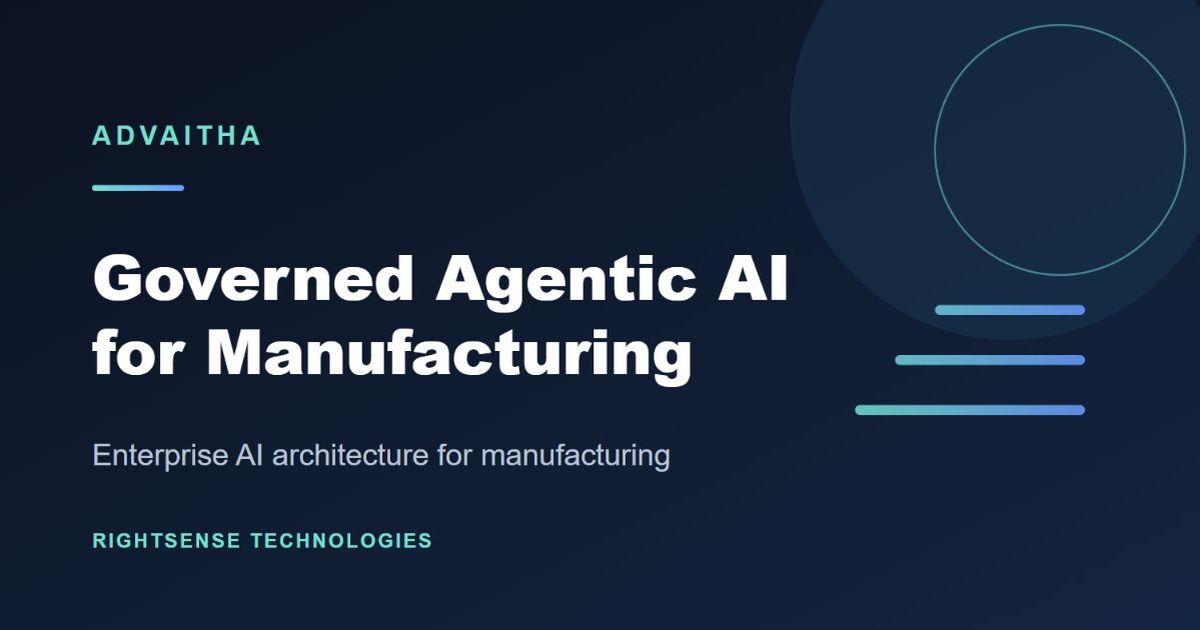
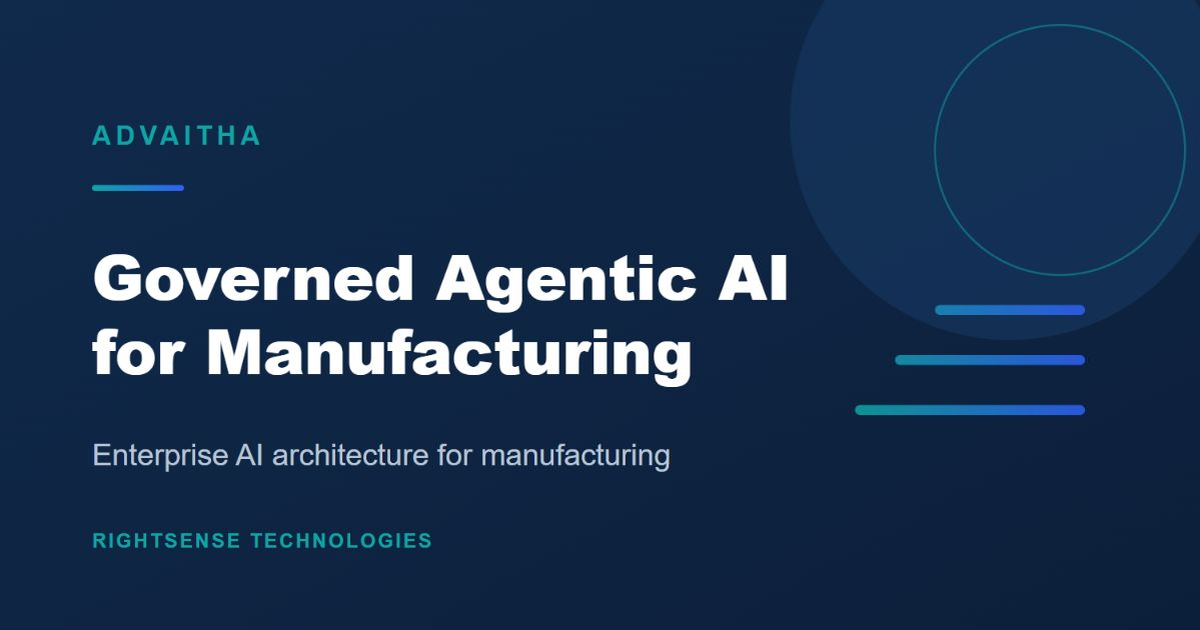
Align Advaitha with RightSense brand system

diff --git a/about.html b/about.html
@@ -15,5 +15,5 @@
 <main><section class="page-hero"><div class="container"><span class="eyebrow">About Advaitha</span><h1>Enterprise AI should become part of the operating system—not another disconnected layer.</h1><p>Advaitha is a strategic AI architecture and advisory initiative of RightSense Technologies Private Limited, focused on engineering-intensive manufacturing enterprises.</p></div></section>
 <section class="section"><div class="container credibility"><div><div class="big-stat">35<span>+</span></div><strong>years of enterprise systems and manufacturing transformation experience</strong></div><div class="credibility-copy"><div class="kicker">Led by Mohan Babu</div><h2>Systems thinking before AI novelty.</h2><p>Mohan Babu is an enterprise AI strategist and manufacturing systems architect with experience spanning ERP, PLM, product configuration, engineering processes, industrial operations and large-scale transformation. His work has included SAP and Oracle environments, engineering-intensive manufacturing and the integration challenges that sit between commercial, engineering and operations teams.</p><p>Advaitha applies that experience to a new problem: how enterprises can adopt Agentic AI without creating more fragmentation, unmanaged autonomy or technology that cannot be tied to business outcomes.</p><div class="tags"><span class="tag">ERP transformation</span><span class="tag">PLM</span><span class="tag">Product configuration</span><span class="tag">Engineering workflows</span><span class="tag">Industrial operations</span><span class="tag">Enterprise architecture</span></div></div></div></section>
 <section class="section section-soft"><div class="container"><div class="section-head"><div class="kicker">Operating philosophy</div><h2>Non-duality translated into enterprise architecture.</h2><p>The name Advaitha reflects a simple architectural principle: intelligence and operations should not live as separate worlds. The philosophy is expressed practically—not metaphysically—through integrated context, governed decision loops and fewer gaps between information and accountable action.</p></div><div class="card-grid"><article class="card"><h3>Outcome before technology</h3><p>Begin with the business decision, the economic lever and the accountable owner. Select technology only after the problem is clear.</p></article><article class="card"><h3>Integration before proliferation</h3><p>Use the systems already running the enterprise as the foundation, rather than introducing another disconnected island of intelligence.</p></article><article class="card"><h3>Governance before autonomy</h3><p>Define permissions, evidence, approvals and escalation before agents are allowed to act on material enterprise processes.</p></article></div></div></section>
-<section class="section section-dark"><div class="container"><div class="section-head"><div class="kicker">RightSense Technologies</div><h2>Advaitha is the architecture and advisory layer within a broader AI-native transformation ecosystem.</h2><p>RightSense provides transformation and delivery capability, while its purpose-built platforms can accelerate selected use cases where there is a clear fit. Advaitha remains focused on the enterprise architecture, governance and operating model required to make those decisions coherently.</p></div><a class="btn btn-secondary" href="https://rightsense.in/" target="_blank" rel="noopener">Visit RightSense</a></div></section></main>
-<footer class="site-footer"><div class="container footer-grid"><p>© 2026 Advaitha · RightSense Technologies Private Limited · Bengaluru, India.</p><div class="footer-links"><a href="/">Home</a><a href="/architecture">Architecture</a><a href="/services">Services</a><a href="/contact">Contact</a></div></div></footer><script src="script.js" defer></script></body></html>
+<section class="section section-dark"><div class="container"><div class="section-head"><div class="kicker">RightSense Technologies</div><h2>Advaitha is the Enterprise AI Architecture & Advisory practice within the RightSense Technologies ecosystem.</h2><p>Advaitha defines strategy, architecture and governance. RightSense provides transformation, delivery and integration capability. PulseIQ, WinsProposal and TalentPulse provide purpose-built acceleration where there is a clear fit, without requiring a product-first transformation.</p></div><a class="btn btn-secondary" href="https://rightsense.in/" target="_blank" rel="noopener noreferrer">Visit RightSense</a></div></section></main>
+<footer class="site-footer"><div class="container footer-grid"><p>© 2026 Advaitha · RightSense Technologies Private Limited · Bengaluru, India.</p><div class="footer-links"><a href="/">Home</a><a href="/architecture">Architecture</a><a href="/services">Services</a><a href="/contact">Contact</a><a href="https://rightsense.in/" target="_blank" rel="noopener noreferrer">RightSense</a><a href="https://pulseiq.co.in/" target="_blank" rel="noopener noreferrer">PulseIQ</a><a href="https://winsproposal.com/" target="_blank" rel="noopener noreferrer">WinsProposal</a><a href="https://talentpulse.me/" target="_blank" rel="noopener noreferrer">TalentPulse</a></div></div></footer><script src="script.js" defer></script></body></html>

diff --git a/index.html b/index.html
@@ -154,14 +154,14 @@
       <div class="container">
         <div class="section-head">
           <div class="kicker">RightSense ecosystem</div>
-          <h2>Advisory above. Purpose-built platforms where acceleration matters.</h2>
-          <p>Advaitha remains technology- and architecture-led. Where a use case aligns, RightSense platforms can accelerate execution without forcing a product-first transformation.</p>
+          <h2>Architecture above. Purpose-built platforms where acceleration matters.</h2>
+          <p>Advaitha is the Enterprise AI Architecture & Advisory practice within the RightSense Technologies ecosystem. RightSense provides transformation, delivery and integration capability; its purpose-built platforms accelerate specific operating outcomes where there is a clear fit, without forcing a product-first transformation.</p>
         </div>
         <div class="ecosystem-grid">
-          <article class="ecosystem-card"><strong>RightSense</strong><span>AI-native enterprise transformation and delivery.</span><a href="https://rightsense.in/" target="_blank" rel="noopener">rightsense.in →</a></article>
-          <article class="ecosystem-card"><strong>PulseIQ</strong><span>Enterprise operating intelligence and outcome visibility.</span><a href="https://pulseiq.co.in/" target="_blank" rel="noopener">pulseiq.co.in →</a></article>
-          <article class="ecosystem-card"><strong>WinsProposal</strong><span>Revenue and proposal intelligence for engineering-intensive businesses.</span><a href="https://winsproposal.com/" target="_blank" rel="noopener">winsproposal.com →</a></article>
-          <article class="ecosystem-card"><strong>TalentPulse</strong><span>AI-native talent intelligence for enterprise and recruiting workflows.</span><a href="https://talentpulse.me/" target="_blank" rel="noopener">talentpulse.me →</a></article>
+          <article class="ecosystem-card"><strong>RightSense Technologies</strong><span>Enterprise Operating Intelligence for industrial and project-driven businesses.</span><a href="https://rightsense.in/" target="_blank" rel="noopener noreferrer">Visit RightSense →</a></article>
+          <article class="ecosystem-card"><strong>PulseIQ</strong><span><b>Enterprise Operating Intelligence Platform</b><br>Connects enterprise truth into executive operating intelligence, forecasting, what-if scenarios and board-ready recommendations.</span><a href="https://pulseiq.co.in/" target="_blank" rel="noopener noreferrer">pulseiq.co.in →</a></article>
+          <article class="ecosystem-card"><strong>WinsProposal</strong><span><b>Revenue and Proposal Intelligence Platform</b><br>Turns proposals, RFP responses and pricing decisions into a learning loop that improves win rate and protects margin.</span><a href="https://winsproposal.com/" target="_blank" rel="noopener noreferrer">winsproposal.com →</a></article>
+          <article class="ecosystem-card"><strong>TalentPulse</strong><span><b>AI-Native Talent Intelligence Platform</b><br>Surfaces workforce capacity, skills, attrition and productivity signals that leadership cannot see in HRMS alone.</span><a href="https://talentpulse.me/" target="_blank" rel="noopener noreferrer">talentpulse.me →</a></article>
         </div>
       </div>
     </section>
@@ -210,7 +210,7 @@
   <footer class="site-footer">
     <div class="container footer-grid">
       <p>© 2026 Advaitha. A strategic AI architecture and advisory initiative of RightSense Technologies Private Limited, Bengaluru, India.</p>
-      <div class="footer-links"><a href="/architecture">Architecture</a><a href="/services">Services</a><a href="/about">About</a><a href="/contact">Contact</a><a href="mailto:mohan@rightsense.in">mohan@rightsense.in</a></div>
+      <div class="footer-links"><a href="/architecture">Architecture</a><a href="/services">Services</a><a href="/about">About</a><a href="/contact">Contact</a><a href="https://rightsense.in/" target="_blank" rel="noopener noreferrer">RightSense</a><a href="https://pulseiq.co.in/" target="_blank" rel="noopener noreferrer">PulseIQ</a><a href="https://winsproposal.com/" target="_blank" rel="noopener noreferrer">WinsProposal</a><a href="https://talentpulse.me/" target="_blank" rel="noopener noreferrer">TalentPulse</a><a href="mailto:mohan@rightsense.in">mohan@rightsense.in</a></div>
     </div>
   </footer>
   <script src="script.js" defer></script>

diff --git a/styles.css b/styles.css
@@ -1,16 +1,17 @@
 :root {
-  --ink: #0b1220;
-  --muted: #5f6b7a;
-  --line: #dfe5ec;
-  --soft: #f4f7fa;
+  --ink: #0f172a;
+  --muted: #64748b;
+  --line: #e2e8f0;
+  --soft: #f8fafc;
   --paper: #ffffff;
-  --accent: #1463ff;
-  --accent-deep: #0a3bb3;
-  --accent-soft: #eaf1ff;
-  --success: #0f766e;
+  --accent: #2f60f5;
+  --accent-deep: #1c47d8;
+  --accent-soft: #eef4ff;
+  --teal: #0ea5a4;
+  --success: #0ea5a4;
   --max: 1180px;
-  --radius: 18px;
-  --shadow: 0 18px 50px rgba(11, 18, 32, 0.08);
+  --radius: 20px;
+  --shadow: 0 18px 50px rgba(15, 23, 42, 0.08);
 }
 
 * { box-sizing: border-box; margin: 0; padding: 0; }
@@ -36,7 +37,7 @@ img { max-width: 100%; }
   border-bottom: 1px solid rgba(223, 229, 236, 0.85);
 }
 .nav {
-  min-height: 72px;
+  min-height: 64px;
   display: flex;
   align-items: center;
   justify-content: space-between;
@@ -115,10 +116,14 @@ img { max-width: 100%; }
   position: relative;
   overflow: hidden;
   padding: 112px 0 82px;
-  background:
-    linear-gradient(rgba(20, 99, 255, 0.035) 1px, transparent 1px),
-    linear-gradient(90deg, rgba(20, 99, 255, 0.035) 1px, transparent 1px),
-    linear-gradient(180deg, #f8fbff 0%, #ffffff 100%);
+  color: #fff;
+  background-color: #102a4c;
+  background-image:
+    linear-gradient(rgba(255, 255, 255, 0.07) 1px, transparent 1px),
+    linear-gradient(90deg, rgba(255, 255, 255, 0.07) 1px, transparent 1px),
+    radial-gradient(ellipse 80% 55% at 50% 25%, rgba(47, 96, 245, 0.28) 0%, transparent 60%),
+    radial-gradient(ellipse 55% 45% at 85% 35%, rgba(14, 165, 164, 0.14) 0%, transparent 60%),
+    linear-gradient(180deg, #16365f 0%, #102a4c 60%, #0c1f3a 100%);
   background-size: 48px 48px, 48px 48px, auto;
 }
 .hero::after {
@@ -127,7 +132,7 @@ img { max-width: 100%; }
   width: 420px;
   height: 420px;
   border-radius: 50%;
-  background: radial-gradient(circle, rgba(20, 99, 255, 0.12), transparent 68%);
+  background: radial-gradient(circle, rgba(47, 96, 245, 0.22), transparent 68%);
   top: -180px;
   right: -120px;
   pointer-events: none;
@@ -137,10 +142,10 @@ img { max-width: 100%; }
   align-items: center;
   gap: 8px;
   padding: 7px 11px;
-  border: 1px solid #cfdbec;
-  background: rgba(255,255,255,0.8);
+  border: 1px solid rgba(255,255,255,.25);
+  background: rgba(255,255,255,0.1);
   border-radius: 999px;
-  color: var(--accent-deep);
+  color: #dbe6f4;
   font-size: 0.78rem;
   font-weight: 750;
   text-transform: uppercase;
@@ -156,7 +161,7 @@ img { max-width: 100%; }
 }
 .hero-copy {
   max-width: 770px;
-  color: var(--muted);
+  color: #dbe6f4;
   font-size: clamp(1.08rem, 2vw, 1.3rem);
   margin-top: 26px;
 }
@@ -174,8 +179,8 @@ img { max-width: 100%; }
   transition: transform .18s ease, box-shadow .18s ease, background .18s ease;
 }
 .btn:hover { transform: translateY(-2px); box-shadow: 0 10px 24px rgba(11, 18, 32, 0.12); }
-.btn-primary { background: var(--ink); color: #fff; }
-.btn-primary:hover { background: var(--accent); border-color: var(--accent); }
+.btn-primary { background: var(--accent); color: #fff; border-color: var(--accent); }
+.btn-primary:hover { background: var(--accent-deep); border-color: var(--accent-deep); }
 .btn-secondary { background: #fff; color: var(--ink); border-color: #cfd7e2; }
 
 .proof-strip {

diff --git a/contact.html b/contact.html
@@ -14,4 +14,4 @@
 <body><header class="site-header"><nav class="container nav" aria-label="Primary navigation"><a class="brand" href="/"><span class="brand-mark" aria-hidden="true"></span>ADVAITHA</a><button class="menu-toggle" aria-label="Toggle navigation" aria-expanded="false"><span></span><span></span><span></span></button><ul class="nav-links"><li><a href="/#outcomes">What We Solve</a></li><li><a href="/architecture">Architecture</a></li><li><a href="/services">Services</a></li><li><a href="/about">About</a></li><li><a class="btn btn-primary" href="/#assessment">Assess Your AI Opportunity</a></li></ul></nav></header>
 <main><section class="page-hero"><div class="container"><span class="eyebrow">Contact</span><h1>Start with the operating problem you want AI to change.</h1><p>For enterprise architecture, Agentic AI transformation or advisory discussions, begin with the Executive AI Opportunity & Architecture Assessment or contact Mohan Babu directly.</p><div class="hero-actions"><a class="btn btn-primary" href="/#assessment">Request the Assessment</a><a class="btn btn-secondary" href="mailto:mohan@rightsense.in">mohan@rightsense.in</a></div></div></section>
 <section class="section"><div class="container content-grid"><div class="content-block"><h2>Best fit</h2><p>Engineering-intensive manufacturers working across ERP, PLM, CRM, CPQ, quality, engineering documents and operational data—especially where AI pilots have not yet become governed operating capability.</p></div><div class="content-block"><h2>Useful participants</h2><p>CEO/MD, COO, CIO/IT leadership and one or two business owners from commercial, engineering, supply chain or operations depending on the target workflow.</p></div><div class="content-block"><h2>What to bring</h2><p>A high-level description of the workflow, systems involved, the current pain or delay and the business outcome you want to improve. No production credentials or database access are required for an initial discussion.</p></div><div class="content-block"><h2>Location</h2><p>Bengaluru, India. Enterprise engagements can be structured for India or global teams.</p></div></div></section></main>
-<footer class="site-footer"><div class="container footer-grid"><p>© 2026 Advaitha · RightSense Technologies Private Limited · Bengaluru, India.</p><div class="footer-links"><a href="/">Home</a><a href="/architecture">Architecture</a><a href="/services">Services</a><a href="/about">About</a></div></div></footer><script src="script.js" defer></script></body></html>
+<footer class="site-footer"><div class="container footer-grid"><p>© 2026 Advaitha · RightSense Technologies Private Limited · Bengaluru, India.</p><div class="footer-links"><a href="/">Home</a><a href="/architecture">Architecture</a><a href="/services">Services</a><a href="/about">About</a><a href="https://rightsense.in/" target="_blank" rel="noopener noreferrer">RightSense</a><a href="https://pulseiq.co.in/" target="_blank" rel="noopener noreferrer">PulseIQ</a><a href="https://winsproposal.com/" target="_blank" rel="noopener noreferrer">WinsProposal</a><a href="https://talentpulse.me/" target="_blank" rel="noopener noreferrer">TalentPulse</a></div></div></footer><script src="script.js" defer></script></body></html>

diff --git a/services.html b/services.html
@@ -17,4 +17,4 @@
 <section class="section section-soft" id="blueprint"><div class="container content-grid"><div><div class="kicker">8–10 week architecture engagement</div><h2>Agentic Enterprise Blueprint</h2></div><div class="content-block"><p>For enterprises moving beyond isolated copilots or proofs of concept and needing a governed target architecture and execution roadmap.</p><ul><li>Priority use-case portfolio and value hypotheses</li><li>Enterprise systems and data-flow map</li><li>Semantic/operational intelligence design</li><li>Agent roles, tool permissions and human approval boundaries</li><li>Security, auditability and governance model</li><li>Pilot sequencing and scale roadmap</li></ul></div></div></section>
 <section class="section" id="advisory"><div class="container content-grid"><div><div class="kicker">Ongoing leadership support</div><h2>Strategic AI Advisory</h2></div><div class="content-block"><p>Independent architecture and governance oversight for organizations building an enterprise AI portfolio across multiple vendors, platforms and operating functions.</p><ul><li>Architecture and investment reviews</li><li>Use-case portfolio governance</li><li>Vendor/platform decision support</li><li>Value realization and adoption reviews</li><li>Agent autonomy and risk decisions</li><li>Executive steering support</li></ul></div></div></section>
 <section class="section section-dark"><div class="container"><div class="section-head"><div class="kicker">Entry point</div><h2>Not sure which engagement fits?</h2><p>Begin with the Executive AI Opportunity & Architecture Assessment. It is designed to identify the 3–5 opportunities and constraints that should shape the next investment decision.</p></div><a class="btn btn-secondary" href="/#assessment">Request the Assessment</a></div></section></main>
-<footer class="site-footer"><div class="container footer-grid"><p>© 2026 Advaitha · RightSense Technologies Private Limited · Bengaluru, India.</p><div class="footer-links"><a href="/">Home</a><a href="/architecture">Architecture</a><a href="/about">About</a><a href="/contact">Contact</a></div></div></footer><script src="script.js" defer></script></body></html>
+<footer class="site-footer"><div class="container footer-grid"><p>© 2026 Advaitha · RightSense Technologies Private Limited · Bengaluru, India.</p><div class="footer-links"><a href="/">Home</a><a href="/architecture">Architecture</a><a href="/about">About</a><a href="/contact">Contact</a><a href="https://rightsense.in/" target="_blank" rel="noopener noreferrer">RightSense</a><a href="https://pulseiq.co.in/" target="_blank" rel="noopener noreferrer">PulseIQ</a><a href="https://winsproposal.com/" target="_blank" rel="noopener noreferrer">WinsProposal</a><a href="https://talentpulse.me/" target="_blank" rel="noopener noreferrer">TalentPulse</a></div></div></footer><script src="script.js" defer></script></body></html>

diff --git a/architecture.html b/architecture.html
@@ -24,5 +24,5 @@
 <section class="section"><div class="container"><div class="section-head"><div class="kicker">Typical integration pattern</div><h2>Observe → contextualize → recommend → approve → act → verify.</h2><p>This operating loop allows enterprises to increase autonomy gradually while preserving evidence, controls and a measurable business objective.</p></div><div class="pathway-grid"><article class="pathway"><h3>Observe</h3><p>Read approved events, status, documents and master/transaction data.</p></article><article class="pathway"><h3>Contextualize</h3><p>Resolve business entities, policies, dependencies, history and risk signals.</p></article><article class="pathway"><h3>Recommend / act</h3><p>Generate the next best action or execute within explicitly approved tool boundaries.</p></article><article class="pathway"><h3>Verify</h3><p>Measure the resulting operational and economic outcome and retain the audit trail.</p></article></div></div></section>
 <section class="section section-dark"><div class="container"><div class="section-head"><div class="kicker">Next step</div><h2>Architecture should follow the business decision—not precede it.</h2><p>Start by identifying the few workflows where better intelligence and controlled agency can materially improve enterprise performance.</p></div><a class="btn btn-secondary" href="/#assessment">Assess Your AI Opportunity</a></div></section>
 </main>
-<footer class="site-footer"><div class="container footer-grid"><p>© 2026 Advaitha · RightSense Technologies Private Limited · Bengaluru, India.</p><div class="footer-links"><a href="/">Home</a><a href="/services">Services</a><a href="/about">About</a><a href="/contact">Contact</a></div></div></footer><script src="script.js" defer></script>
+<footer class="site-footer"><div class="container footer-grid"><p>© 2026 Advaitha · RightSense Technologies Private Limited · Bengaluru, India.</p><div class="footer-links"><a href="/">Home</a><a href="/services">Services</a><a href="/about">About</a><a href="/contact">Contact</a><a href="https://rightsense.in/" target="_blank" rel="noopener noreferrer">RightSense</a><a href="https://pulseiq.co.in/" target="_blank" rel="noopener noreferrer">PulseIQ</a><a href="https://winsproposal.com/" target="_blank" rel="noopener noreferrer">WinsProposal</a><a href="https://talentpulse.me/" target="_blank" rel="noopener noreferrer">TalentPulse</a></div></div></footer><script src="script.js" defer></script>
 </body></html>

diff --git a/BRAND_SYSTEM.md b/BRAND_SYSTEM.md
@@ -1,0 +1,46 @@
+# RightSense Ecosystem Brand System
+
+## Brand hierarchy
+
+- RightSense Technologies — parent company, enterprise transformation and delivery.
+- Advaitha — Enterprise AI Architecture & Advisory.
+- PulseIQ — Enterprise Operating Intelligence Platform.
+- WinsProposal — Revenue and Proposal Intelligence Platform.
+- TalentPulse — AI-Native Talent Intelligence Platform.
+
+## Typography
+
+Use Inter only for web UI, with sensible system fallbacks.
+
+## Palette
+
+- Primary ink: `#0f172a`
+- Dark hero: `#102a4c`
+- Brand blue: `#2f60f5`
+- Deep brand blue: `#1c47d8`
+- Teal accent: `#0ea5a4`
+- Canvas: `#f8fafc`
+- Border: `#e2e8f0`
+- White: `#ffffff`
+
+Preserve each site’s extended token scale, card radii, shadows, spacing system, and light/dark grid language when extending the design.
+
+## Product naming
+
+Never abbreviate or rename the canonical products in public-facing copy.
+
+## Outcome vocabulary
+
+Prefer revenue, margin, cash / working capital, productivity, execution speed, risk reduction, decision clarity, and decision velocity.
+
+## Experience rules
+
+Across public sites maintain consistency in typography, primary colors, buttons, cards, spacing, dark/light surfaces, product descriptions, ecosystem links, outcome terminology, and social metadata.
+
+## Role separation
+
+Advaitha must never be positioned as another software platform. It is the Enterprise AI Architecture & Advisory practice within the RightSense Technologies ecosystem.
+
+## Change management
+
+Any future public-site change affecting one ecosystem brand should be checked against this document before merge.
